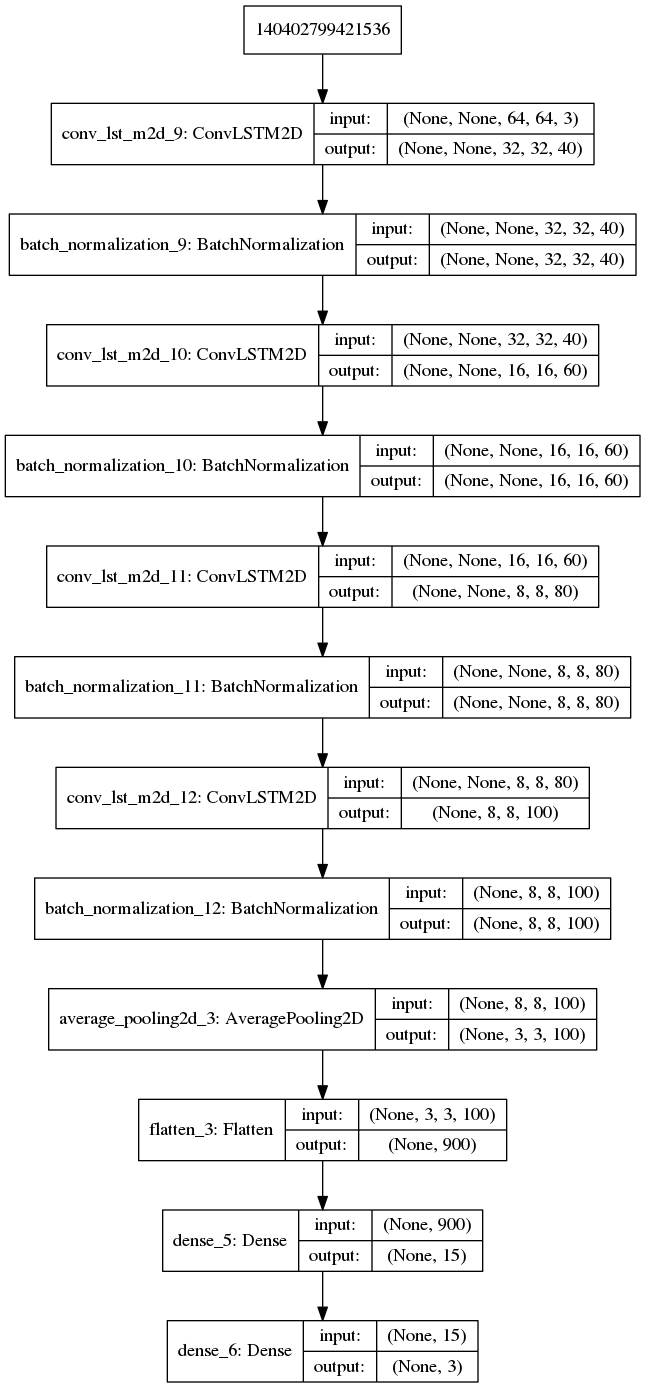
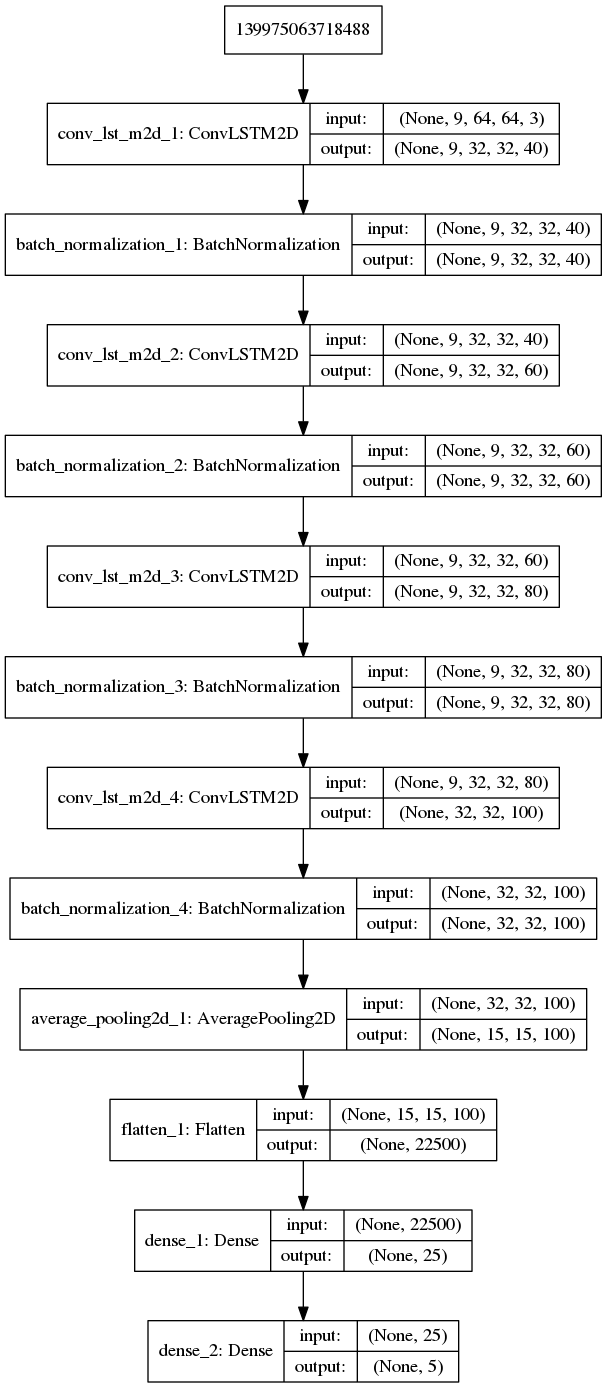
callback added

diff --git a/src/LSTMNetwork.py b/src/LSTMNetwork.py
@@ -24,23 +24,23 @@ class LSTMNetwork:
             filters=60,
             kernel_size=(3, 3),
             padding='same',
-            strides=2,
+            strides=1,
             kernel_initializer='random_uniform',
             bias_initializer='zeros',
             return_sequences=True))
         model.add(BatchNormalization())
         model.add(ConvLSTM2D(
             filters=80,
-            kernel_size=(3, 3),
+            kernel_size=(2, 2),
             padding='same',
-            strides=2,
+            strides=1,
             kernel_initializer='random_uniform',
             bias_initializer='zeros',
             return_sequences=True))
         model.add(BatchNormalization())
         model.add(ConvLSTM2D(
             filters=100,
-            kernel_size=(3, 3),
+            kernel_size=(2, 2),
             padding='same',
             kernel_initializer='random_uniform',
             bias_initializer='zeros',
